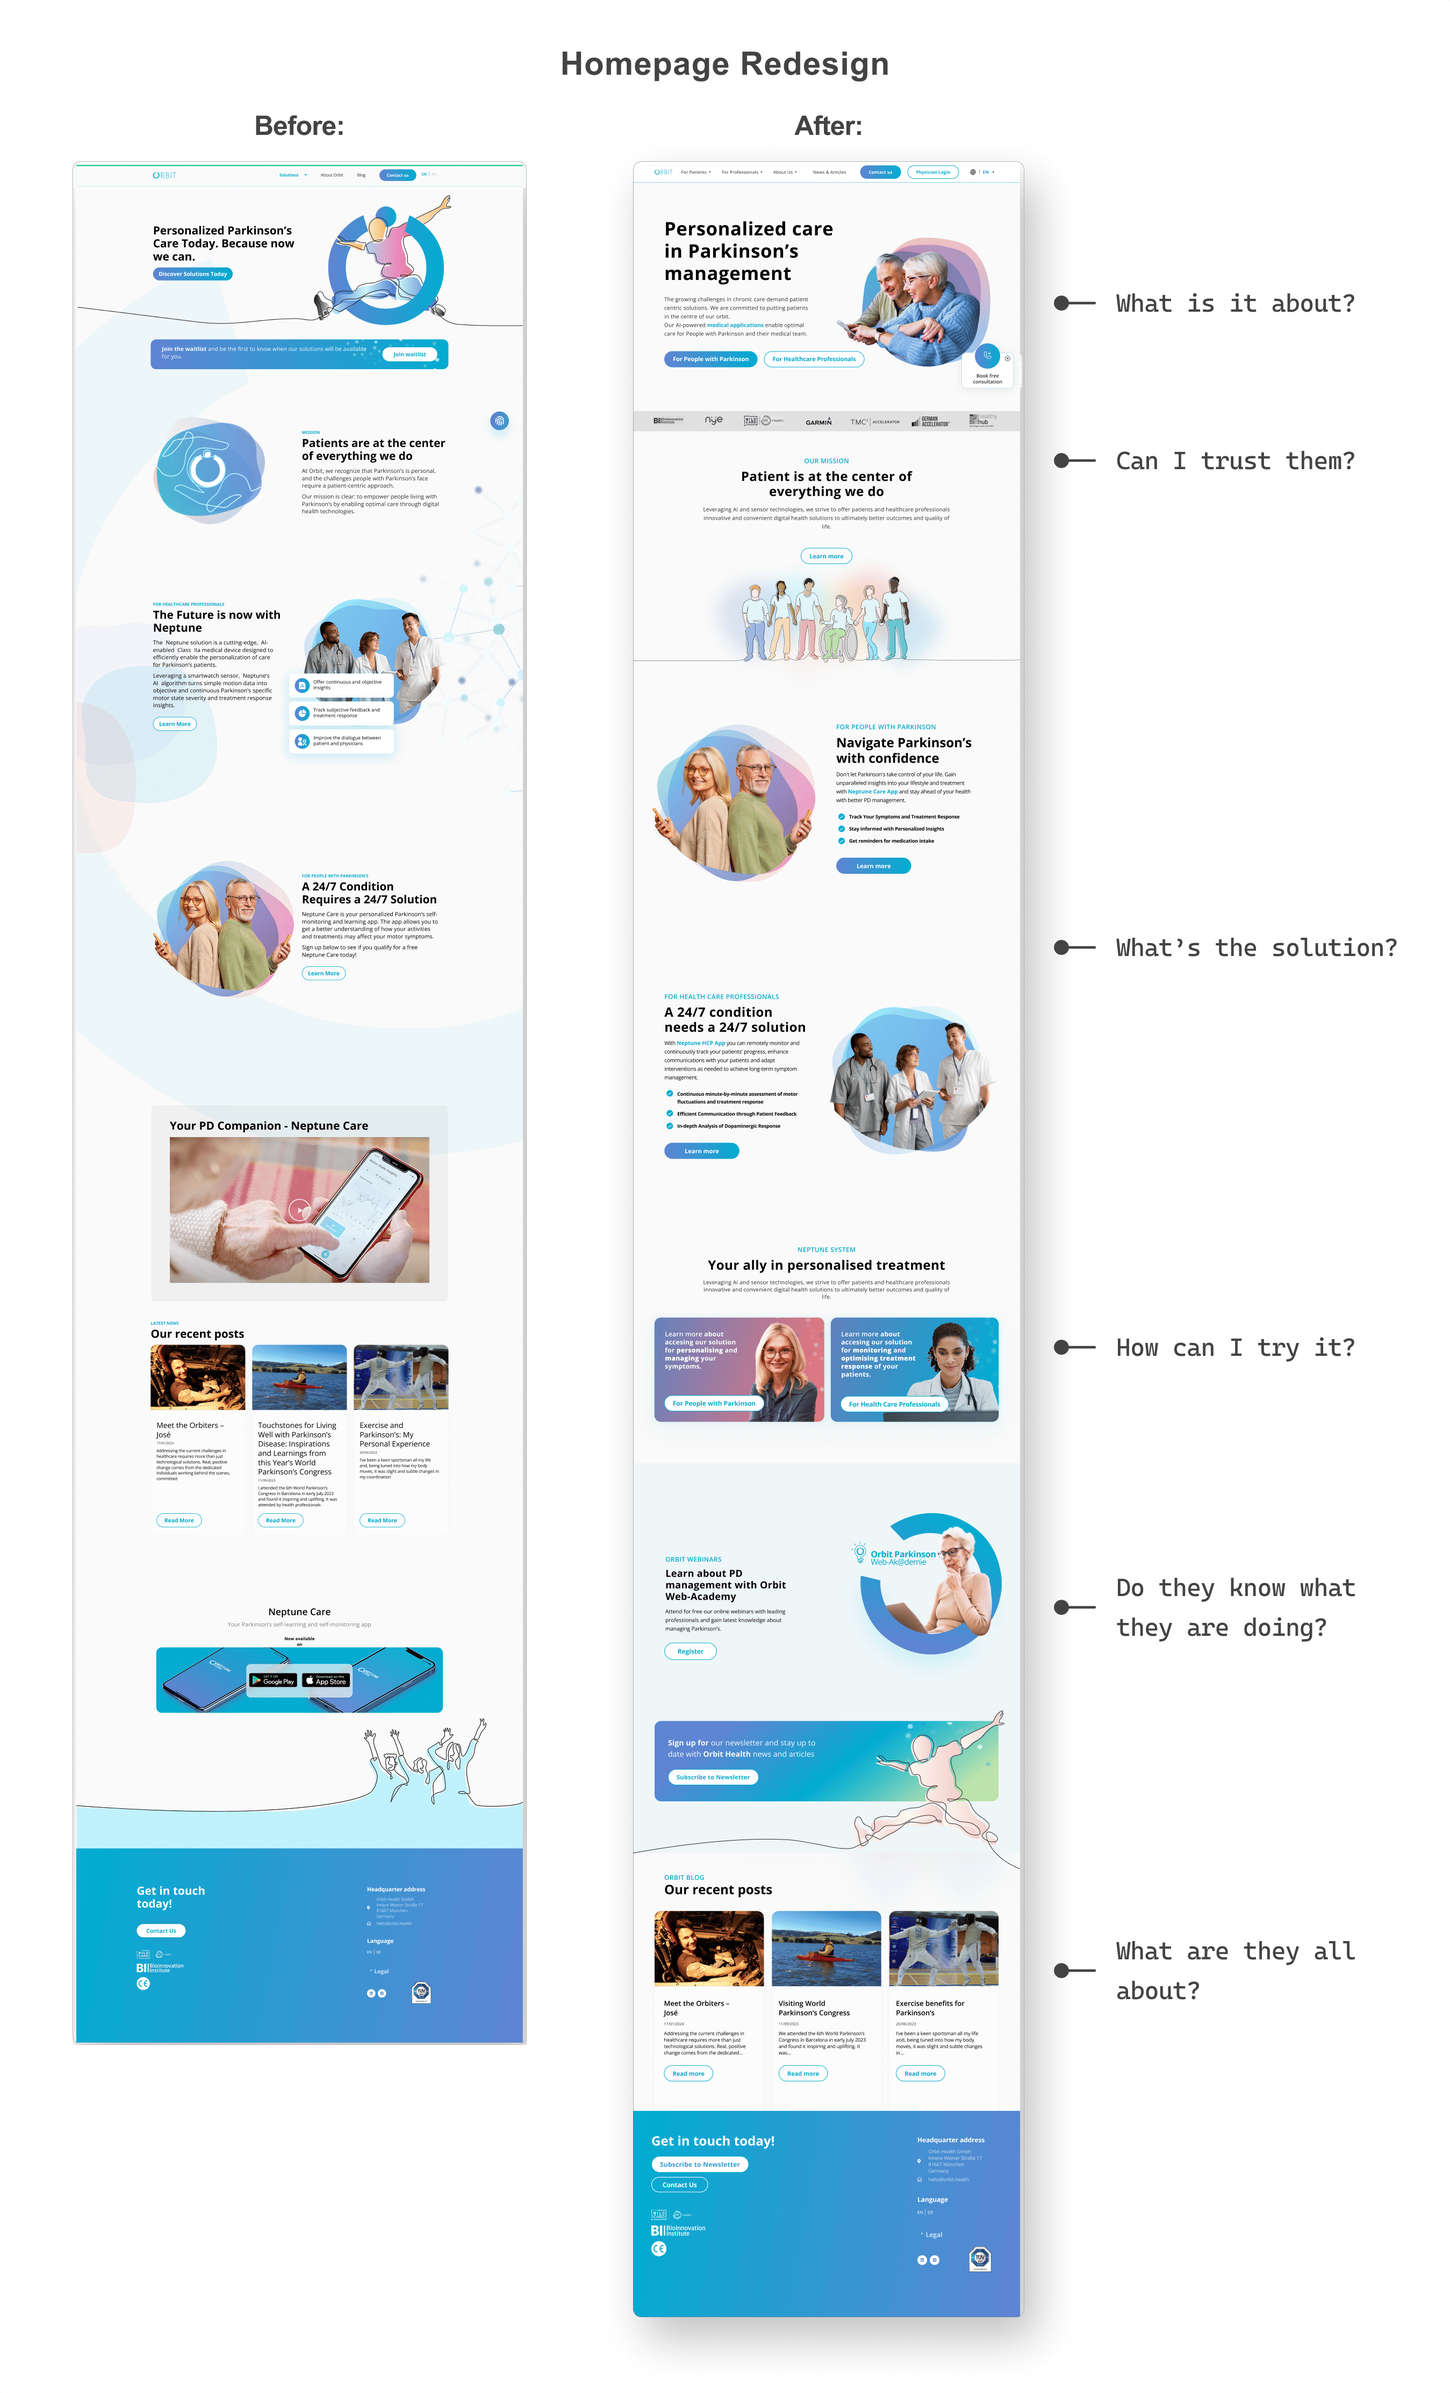
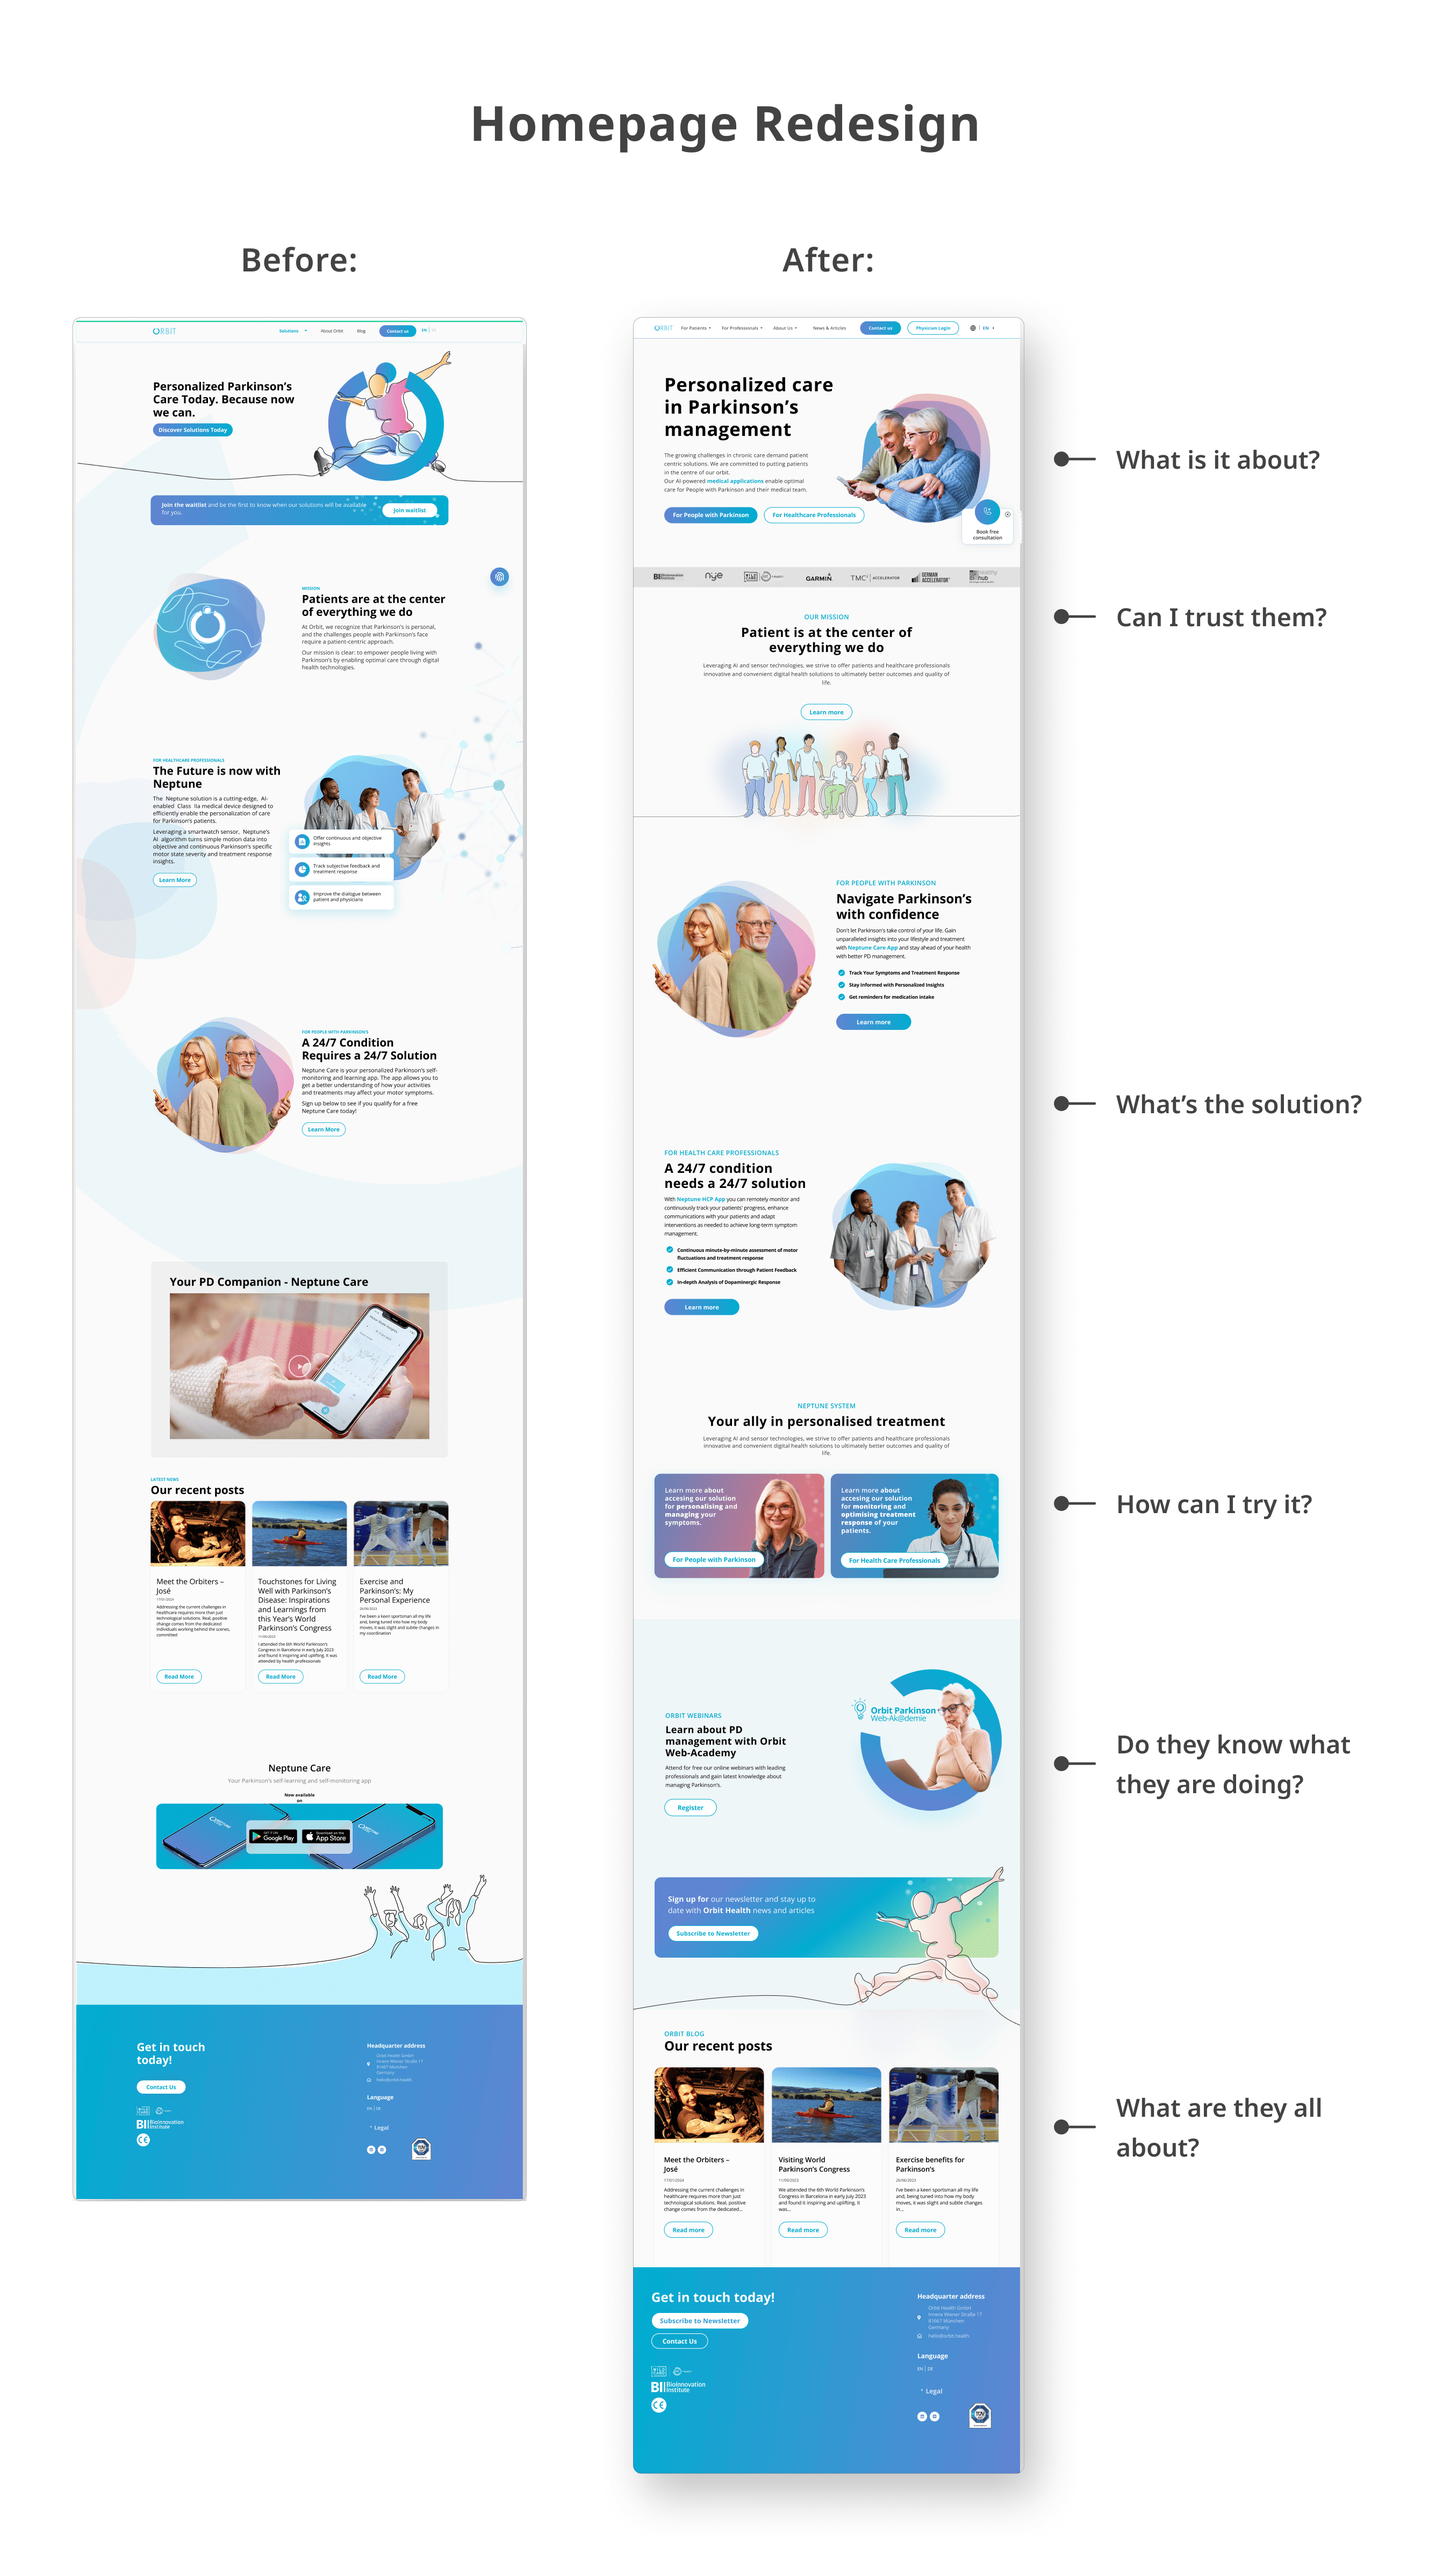
Orbit hero subtitles improved

diff --git a/src/components/portfolio/case-studies/MyStoryCaseStudy.jsx b/src/components/portfolio/case-studies/MyStoryCaseStudy.jsx
@@ -45,9 +45,24 @@ const MyStoryCaseStudy = () => {
               className="shane_tm_title"
               data-aos="fade-up"
               data-aos-duration="1200"
-            >
-              <h1>Clarifying Value to Drive Conversion</h1>
-              <h4>Orbit Health Website Redesign</h4>
+            > 
+              <div className="subtitle-container">
+            <div className="subtitle-content">
+              <h1>Driving Growth through Tailored User Journeys</h1>
+              </div>
+              </div>
+              <div>
+                {" "}
+                <h4>Orbit Health Website Redesign</h4>
+              </div>
+              <div className="subtitle-container">
+                <div className="subtitle-content">
+                  <h5>
+                    How replacing a "one-size-fits-all" website with distinct
+                    paths for key users helps improving value proposition and conversion.
+                  </h5>
+                </div>
+              </div>
             </div>
           </div>
         </div>
@@ -173,13 +188,16 @@ const MyStoryCaseStudy = () => {
                     with Parkinson’s) were needed to join an early access
                     program for products validation and driving early adoption.
                     The website needed to be a conversion channel for both users
-                    groups.</p>
+                    groups.
+                  </p>
                   <br />
                   <p>
-                    <strong>The existing site lacked effective user flows,
-                    conversion-focused messaging and guidance through complex
-                    eligibility, regulatory and reimbursement processes for
-                    medical applications in Germany ("DiGA").</strong>
+                    <strong>
+                      The existing site lacked effective user flows,
+                      conversion-focused messaging and guidance through complex
+                      eligibility, regulatory and reimbursement processes for
+                      medical applications in Germany ("DiGA").
+                    </strong>
                   </p>
                 </div>
                 <div
@@ -213,9 +231,13 @@ const MyStoryCaseStudy = () => {
                   {/* Add caption */}
                   <div className="image_caption">
                     <p>
-                      How to present complex medical applications still under development? 
-                      Both doctors and patients needed to easily comprehend what is it, what's the value for them and how to get access.
-                      Existing website lacked this clarity. Simple downloading the app wouldn't work because user needed an account created by the company, after meeting eligibility criteria.
+                      How to present complex medical applications still under
+                      development? Both doctors and patients needed to easily
+                      comprehend what is it, what's the value for them and how
+                      to get access. Existing website lacked this clarity.
+                      Simple downloading the app wouldn't work because user
+                      needed an account created by the company, after meeting
+                      eligibility criteria.
                     </p>
                   </div>
                 </div>
@@ -405,11 +427,11 @@ const MyStoryCaseStudy = () => {
                     alt="Wireframe"
                     className="clickable-image"
                     style={{
-                          width: "100%",
-                          maxHeight: "100vh",
-                          objectFit: "contain",
-                          cursor: "pointer",
-                        }}
+                      width: "100%",
+                      maxHeight: "100vh",
+                      objectFit: "contain",
+                      cursor: "pointer",
+                    }}
                     onClick={() =>
                       handleImageClick(
                         "/img/portfolio/case-study/Orbit_Homepage_comparison_cm.png",
@@ -448,29 +470,19 @@ const MyStoryCaseStudy = () => {
                     for the new site around three principles:
                   </p>
                   <br />
-                  <strong>1.Separate, but connected, journeys:</strong>
+                  <strong>1. Separate, but connected, journeys:</strong>
                   <ul className="case-study-list">
                     <li>
                       Clear entry points and tailored content for people with
                       Parkinson’s and for neurologists.
                     </li>
                     <li>
-                      Shared sections only where goals overlap (e.g. “What is
-                      Orbit”, "How it works")
+                      Shared sections only where goals overlap (e.g. what is
+                      Orbit, what they do, blog)
                     </li>
                   </ul>
-                  <strong>2.Explain complexity step by step:</strong>
-                  <ul className="case-study-list">
-                    <li>
-                      Break down the AI and medical aspects into simple,
-                      progressive content blocks.
-                    </li>
-                    <li>
-                      Use familiar metaphors and visuals to communicate what the
-                      product does, not just how it works.
-                    </li>
-                  </ul>
-                  <strong>3.Anchor UX in real decision points:</strong>
+
+                  <strong>2. Anchor UX in real decision points:</strong>
                   <ul className="case-study-list">
                     <li>
                       Structure pages around the exact questions users have at
@@ -542,7 +554,7 @@ const MyStoryCaseStudy = () => {
                   data-aos-duration="1200"
                 >
                   <span>Impact</span>
-                  <h3>A decision–ready blueprint</h3>
+                  <h3>A guess-free blueprint</h3>
                 </div>
                 <div
                   className="text"
@@ -550,17 +562,27 @@ const MyStoryCaseStudy = () => {
                   data-aos-duration="1200"
                 >
                   <p>
-                    Since my work focused on the discovery and UX design phase,
-                    its impact aligned stakeholders around one website strategy,
-                    dual content structure, and complex user journey maps that
-                    integrate German regulatory and reimbursement constraints:
+                    Since this project focused on the discovery and design
+                    phase, my goal was to give Orbit a rock–solid foundation to
+                    build on. By bringing together the clinical, business, and
+                    regulatory needs into one plan, I created a roadmap that
+                    made the next steps faster and much more certain.
+                  </p>
+                  <p
+                    style={{
+                      marginTop: "18px",
+                    }}
+                  >
+                    <strong>Key Outcomes:</strong>
                   </p>
                   <ul className="case-study-list">
                     <li>
-                      <strong>Shared mental model: </strong> stakeholders gained
-                      a clear, visual representation of patient and neurologist
-                      journeys, making cross‑team discussions faster and more
-                      concrete
+                      <strong>Shared mental model: </strong> the redesign was
+                      built on researched-based empathy for the users and
+                      bussiness objectives and insights of the company
+                      stakeholders. That faciliated shared understanding of the
+                      website strategy and made later development work faster
+                      and more concrete.
                     </li>
 
                     <li>
@@ -571,10 +593,11 @@ const MyStoryCaseStudy = () => {
                       clinicians.
                     </li>
                     <li>
-                      <strong>Content structure and recommendations: </strong>
-                      The project clarified which messages belong on the website
-                      vs. in deeper materials, reducing ambiguity about “what to
-                      say where".
+                      <strong>Content structure and recommendations: </strong>I
+                      simplified the content strategy by defining which messages
+                      belonged on the website and which belonged in deeper
+                      medical documents. This cleared up the "what to say where"
+                      confusion that had been slowing the team down.
                     </li>
                   </ul>
                 </div>

diff --git a/src/assets/scss/main/_style.scss b/src/assets/scss/main/_style.scss
@@ -34,13 +34,13 @@ html {
 }
 body {
   font-family: 'Noto Sans', Arial, sans-serif;
-  font-size: 16px;
-  line-height: 1.7rem;                   
+  font-size: 17px;
+  line-height: 1.7em;                   
   // letter-spacing: 0.5px;
   word-wrap: break-word;
   font-weight: 400;
   background-color: #fff;
-  color: #323036;
+  color: #585462;
   overflow: hidden;
 }
 svg {
@@ -125,15 +125,19 @@ h4 {
   font-weight: 500;
   line-height: 1.2;
   text-align: center;
-  color: #6a6969;
+  color: #757474;
   margin-top: 1.5rem;
-  margin-bottom: 4rem;
+  margin-bottom: 2rem;
   // text-transform: uppercase;
 }
 h5 {
   font-size: 22px;
-  letter-spacing: -0.1px;
-  font-weight: 700;
+  letter-spacing: 0px;
+  font-weight: 400;
+  font-style: italic;
+  line-height: 1.4;
+  color: #3c3a42;
+
 }
 h6 {
 
@@ -145,6 +149,29 @@ h6 {
   font-size: 1rem !important;
   //  letter-spacing: -0.1px;
 }
+
+/* This wrapper centers the content */
+.subtitle-container {
+  display: flex;
+  justify-content: center;
+  width: 100%;
+  padding: 0 20px; /* Small gap for mobile */
+  box-sizing: border-box;
+  margin-bottom: 2rem;
+}
+
+/* This limits the text width on big screens */
+.subtitle-content {
+  width: 100%;
+  text-align: left;
+}
+
+@media (min-width: 1024px) {
+  .subtitle-content {
+    max-width: 70%; /* Limits width only on desktop */
+  }
+}
+
 
 .highlight {
   font-size: 1.5em;
@@ -201,13 +228,13 @@ h6 {
 }
 
 .image_caption {
-  font-size: 0.9rem !important;
+  font-size: 0.9em !important;
   line-height: 1.4;
   font-weight: 500 !important;
   margin-top: 16px !important;
   margin-left: 16px;
    text-align: left !important;
-   color: #5c5761 !important;
+   color: #757474 !important;
   ;
 }
 
